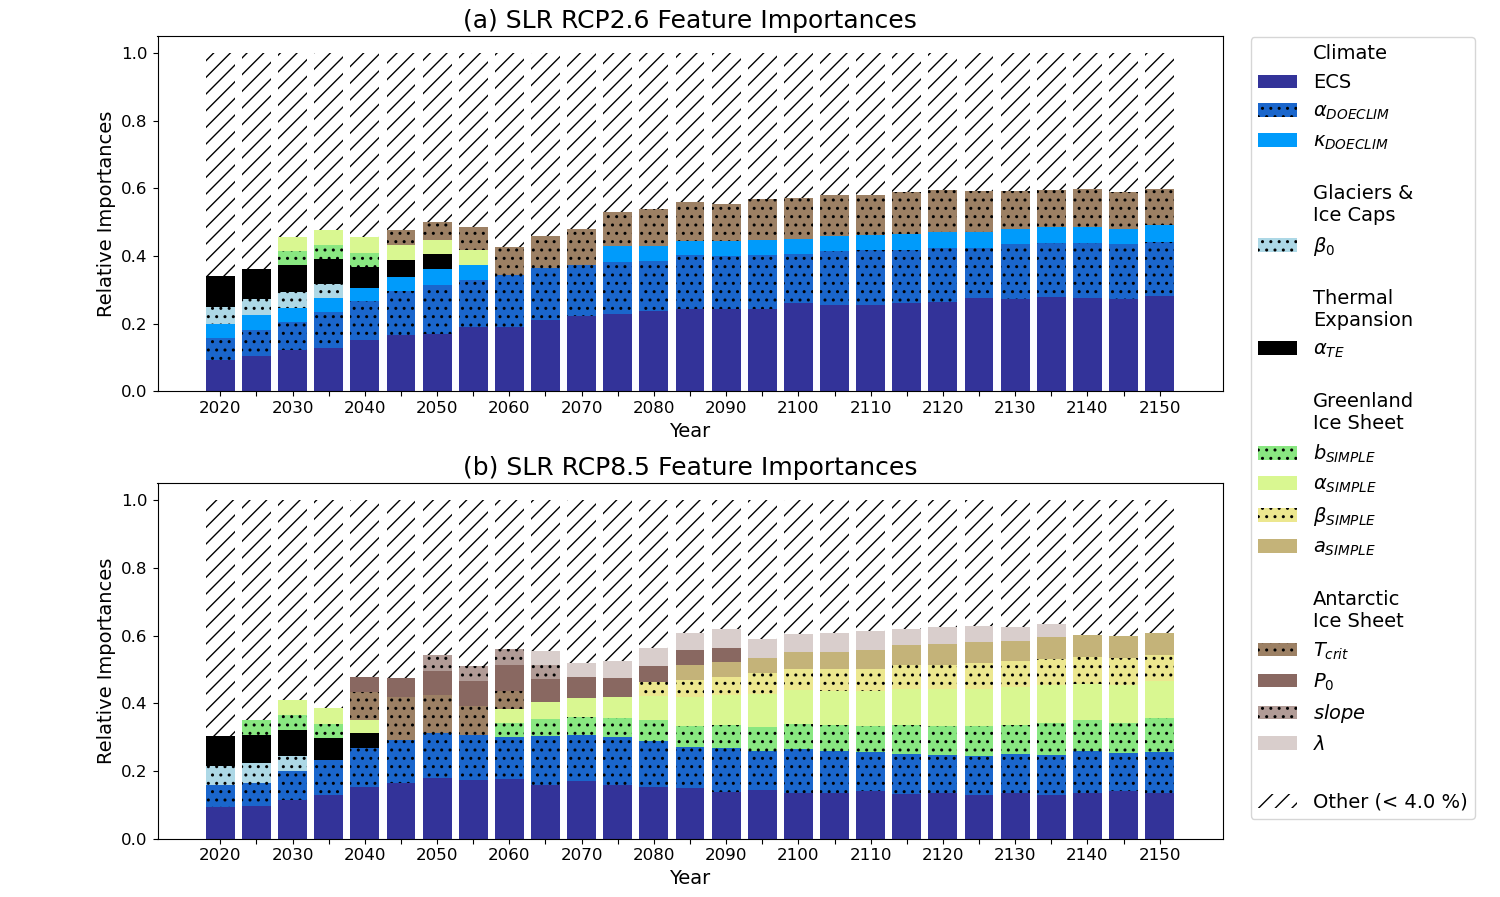
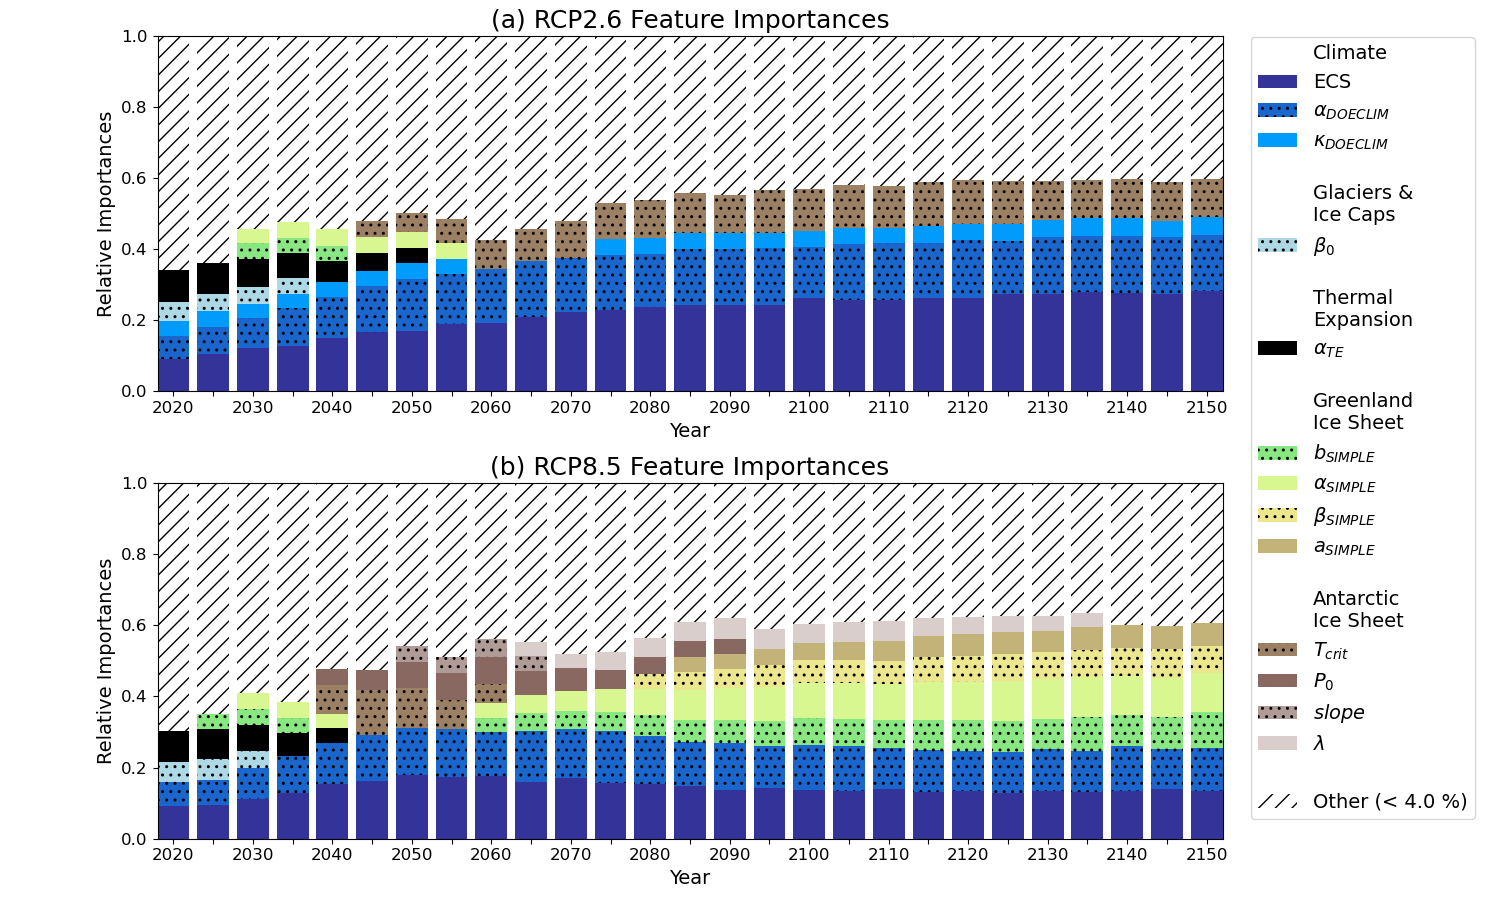
removed whitespace in importances plot

diff --git a/python_code/sklearn_slr_classification.py b/python_code/sklearn_slr_classification.py
@@ -646,13 +646,16 @@ def slr_stacked_importances_plot(param_sample_df, rcp26_forest_list, rcp85_fores
             else:
                 yrs_10.append("")
         axs[i].set_xticks(x)
+        half_default_bar_width = .4
+        axs[i].set_xlim(left=x[0] - half_default_bar_width, right=x[-1] + half_default_bar_width)
         axs[i].set_xticklabels(yrs_10, fontsize=12)
         axs[i].set_xlabel('Year', fontsize=14)
+        axs[i].set_ylim(bottom=0, top=1)
         if i == 0:
             title_label = "(a)"
         else:
             title_label = "(b)"
-        title = title_label + " SLR " + name[i] + " Feature Importances"
+        title = title_label + " " + name[i] + " Feature Importances"
         axs[i].set_title(title, fontsize=18)
         legend_details = axs[i].get_legend_handles_labels()
         handles += legend_details[0]
@@ -1094,8 +1097,8 @@ if __name__ == '__main__':
     list_10_yrs = []
     for yr in range(2020, 2151, 10):
         list_10_yrs.append(yr)
-    rcp26_forest_list_10yrs = load_forests(list_10_yrs, "rcp26")
-    rcp85_forest_list_10yrs = load_forests(list_10_yrs, "rcp85")
+    #rcp26_forest_list_10yrs = load_forests(list_10_yrs, "rcp26")
+    #rcp85_forest_list_10yrs = load_forests(list_10_yrs, "rcp85")
     #rcp26_forest_list_10yrs = load_forests(list_10_yrs, "80th_percentilercp26") # path for 80th percentile forests
     #rcp85_forest_list_10yrs = load_forests(list_10_yrs, "80th_percentilercp85") # path for 80th percentile forests
     path = "../data/new_csv/SLR_splits/classification_forest/"
@@ -1105,12 +1108,13 @@ if __name__ == '__main__':
 
     rcp26_forest_list = load_forests(yrs_rcp26, "rcp26")
     rcp85_forest_list = load_forests(yrs_rcp85, "rcp85")
-    #slr_stacked_importances_plot(df, rcp26_forest_list, rcp85_forest_list, yrs_rcp26, importance_threshold=.04)
-    all_Stemp_max_split_boxplots(list_10_yrs)
+    slr_stacked_importances_plot(df, rcp26_forest_list, rcp85_forest_list, yrs_rcp26, importance_threshold=.04)
+    #all_Stemp_max_split_boxplots(list_10_yrs)
+    # all_Stemp_max_split_histograms([2025, 2050, 2075, 2100, 2125, 2150])
+
     # 80th percentile boxplot:
     #all_Stemp_max_split_boxplots(list_10_yrs,
     #                             ECS_splits_folder_path="../data/new_csv/SLR_splits/classification_forest/80th_percentile/80th_percentile_")
-    #all_Stemp_max_split_histograms([2025, 2050, 2075, 2100, 2125, 2150])
 
     #forest_rcp85_2020 = rcp85_forest_list_10yrs[0]
     #features = df.columns.tolist()
